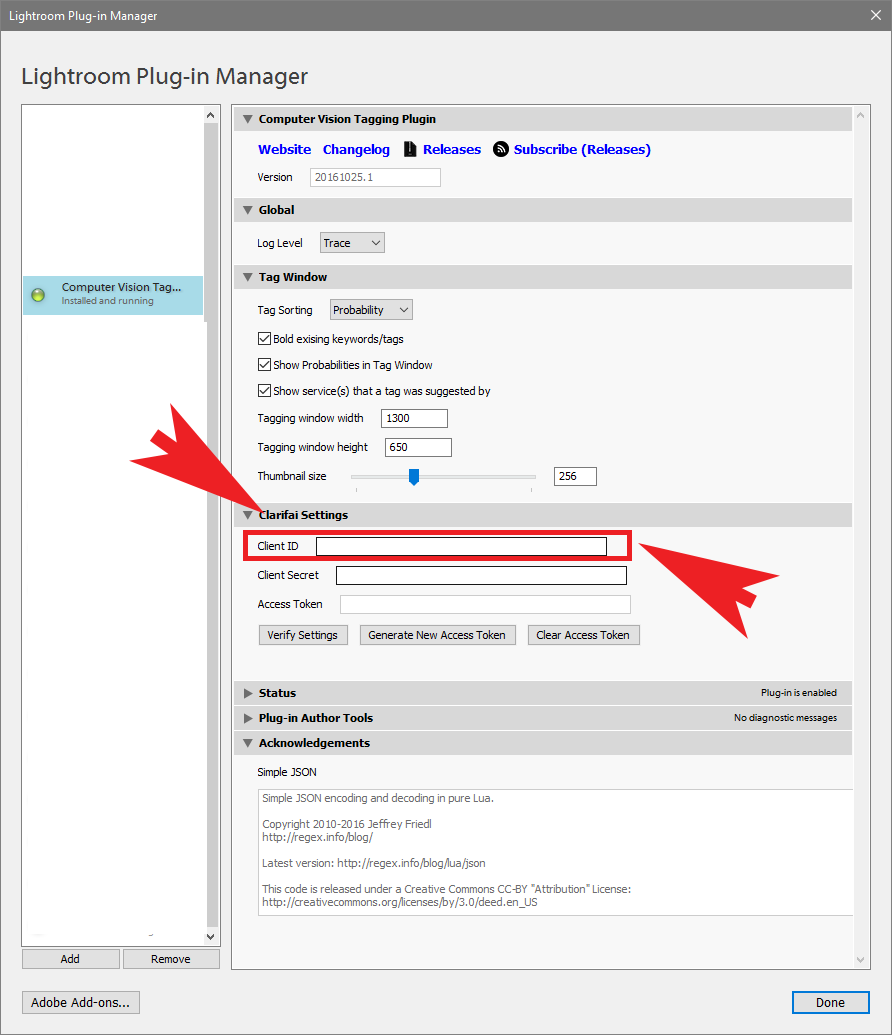
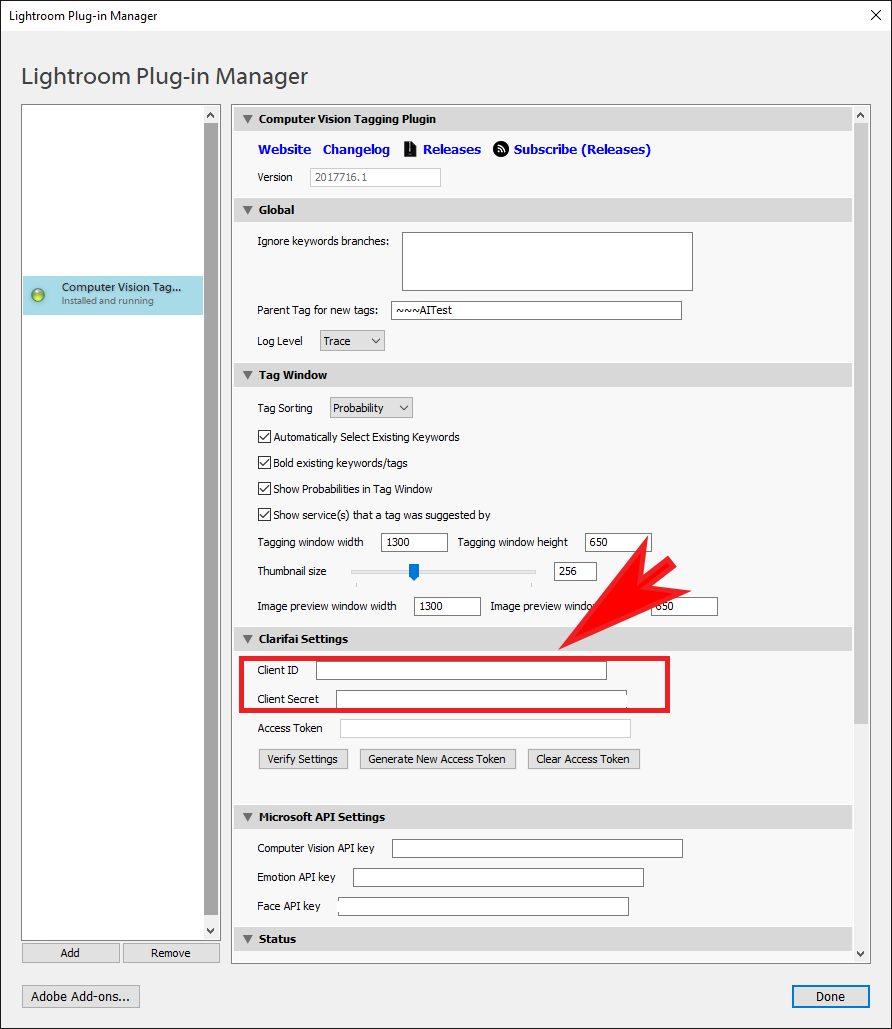
Update for latest 20170716.1 release (LOTS of doc updates plus release announce)

diff --git a/docs/ms_api_setup.md b/docs/ms_api_setup.md
@@ -1,0 +1,50 @@
+---
+layout: page
+title: Micorosft API Setup
+subtitle: How to setup the Microsoft Cognition API with the Lightroom Computer Vision Plugin
+---
+
+*Note: you can click the screen shots for larger versions*
+
+# Create Microsoft API Account
+1. Head over to the [Microsoft Azure Cognitive Services website (link)](https://docs.microsoft.com/en-us/azure/cognitive-services/) and sign up for a new Azure account  
+    [![create_account.png]({{ '/img/ms_api_setup/create_account.png' | prepend: site.baseurl | replace: '//', '/' }}){:height="128px"}]({{ '/img/ms_api_setup/create_account.png' | prepend: site.baseurl | replace: '//', '/' }})  
+    [![create_account_2.png]({{ '/img/ms_api_setup/create_account_2.png' | prepend: site.baseurl | replace: '//', '/' }}){:height="128px"}]({{ '/img/ms_api_setup/create_account_2.png' | prepend: site.baseurl | replace: '//', '/' }})
+1. After your account is created, login to the [Microsoft Azure Cognitive Services website (link)](https://azure.microsoft.com/en-us/try/cognitive-services/)  
+    [![login.png]({{ '/img/ms_api_setup/login.png' | prepend: site.baseurl | replace: '//', '/' }}){:height="128px"}]({{ '/img/ms_api_setup/login.png' | prepend: site.baseurl | replace: '//', '/' }})  
+    [![login_2.png]({{ '/img/ms_api_setup/login_2.png' | prepend: site.baseurl | replace: '//', '/' }}){:height="128px"}]({{ '/img/ms_api_setup/login_2.png' | prepend: site.baseurl | replace: '//', '/' }})
+1. Create API subscriptions for each of the Microsoft Cognition Services you intend to use.
+1. Computer Vision API : Head to [the main site (link)](https://azure.microsoft.com/en-us/services/cognitive-services/computer-vision/) and click the "Portal" link to create the subscription.  
+    [![vision_api_portal_link.png]({{ '/img/ms_api_setup/vision_api_portal_link.png' | prepend: site.baseurl | replace: '//', '/' }}){:height="128px"}]({{ '/img/ms_api_setup/vision_api_portal_link.png' | prepend: site.baseurl | replace: '//', '/' }})
+1. The Azure subscription tool will now show. Enter the necessary details (see screen shot) and ensure you're on the free tier. Also make note of the resource group name you create, it will be used for the other APIs.  
+    [![vision_api_create_sub.png]({{ '/img/ms_api_setup/vision_api_create_sub.png' | prepend: site.baseurl | replace: '//', '/' }}){:height="128px"}]({{ '/img/ms_api_setup/vision_api_create_sub.png' | prepend: site.baseurl | replace: '//', '/' }})
+1. Face API : Head to [the main site (link)](https://azure.microsoft.com/en-us/services/cognitive-services/face/) and click the "Portal" link to create the subscription.  
+    [![face_api_portal_link.png]({{ '/img/ms_api_setup/face_api_portal_link.png' | prepend: site.baseurl | replace: '//', '/' }}){:height="128px"}]({{ '/img/ms_api_setup/face_api_portal_link.png' | prepend: site.baseurl | replace: '//', '/' }})
+1. The Azure subscription tool will now show. Enter the necessary details (see screen shot) and ensure you're on the free tier. Be sure to re-use the resource group you created for the Vision API. This will help make finding the API keys easier.  
+    [![face_api_create_sub.png]({{ '/img/ms_api_setup/face_api_create_sub.png' | prepend: site.baseurl | replace: '//', '/' }}){:height="128px"}]({{ '/img/ms_api_setup/face_api_create_sub.png' | prepend: site.baseurl | replace: '//', '/' }})
+1. Emotion API : Head to [the main site (link)](https://azure.microsoft.com/en-us/services/cognitive-services/emotion/) and click the "Portal" link to create the subscription.  
+    [![emotion_api_portal_link.png]({{ '/img/ms_api_setup/emotion_api_portal_link.png' | prepend: site.baseurl | replace: '//', '/' }}){:height="128px"}]({{ '/img/ms_api_setup/emotion_api_portal_link.png' | prepend: site.baseurl | replace: '//', '/' }})
+1. The Azure subscription tool will now show. Enter the necessary details (see screen shot) and ensure you're on the free tier. Be sure to re-use the resource group you created for the Vision API. This will help make finding the API keys easier.  
+    [![emotion_api_create_sub.png]({{ '/img/ms_api_setup/emotion_api_create_sub.png' | prepend: site.baseurl | replace: '//', '/' }}){:height="128px"}]({{ '/img/ms_api_setup/emotion_api_create_sub.png' | prepend: site.baseurl | replace: '//', '/' }})
+
+# Setup Lightroom Computer Vision for Microsoft API usage
+1. Login to the main [Azure Portal (link)](https://portal.azure.com)
+1. After login you'll see the Azure Dashboard  
+    [![azure_portal_dashboard.png]({{ '/img/install_setup/azure_portal_dashboard.png' | prepend: site.baseurl | replace: '//', '/' }}){:height="128px"}]({{ '/img/install_setup/azure_portal_dashboard.png' | prepend: site.baseurl | replace: '//', '/' }})
+1. In the search box at the top, search for the resource group you setup when creating API keys and click on the resource group  
+    [![azure_portal_search.png]({{ '/img/install_setup/azure_portal_search.png' | prepend: site.baseurl | replace: '//', '/' }}){:height="128px"}]({{ '/img/install_setup/azure_portal_search.png' | prepend: site.baseurl | replace: '//', '/' }})
+1. A list of all your API subscriptions for "Cognitive Services" will now be showing
+    [![azure_api_subscription_list.png]({{ '/img/install_setup/azure_api_subscription_list.png' | prepend: site.baseurl | replace: '//', '/' }}){:height="128px"}]({{ '/img/install_setup/azure_api_subscription_list.png' | prepend: site.baseurl | replace: '//', '/' }})
+1. For each item in the Resource Group click on it and then the "Keys" option under "Resource Management" to find your API keys.
+- *Note: You'll want to make note of "Key 1" for each item, it will be used for setup of the Lightroom Plugin*  
+    [![azure_api_key_details.png]({{ '/img/install_setup/azure_api_key_details.png' | prepend: site.baseurl | replace: '//', '/' }}){:height="128px"}]({{ '/img/install_setup/azure_api_key_details.png' | prepend: site.baseurl | replace: '//', '/' }})
+1. Open Lightroom
+1. Open Plugin Manager in Lightroom  
+    [![file_plugin_manager.png]({{ '/img/install_setup/file_plugin_manager.png' | prepend: site.baseurl | replace: '//', '/' }}){:height="128px"}]({{ '/img/install_setup/file_plugin_manager.png' | prepend: site.baseurl | replace: '//', '/' }})
+1. Select the "Computer Vision Tagging" plugin  
+    [![select_lrcvt.png]({{ '/img/install_setup/select_lrcvt.png' | prepend: site.baseurl | replace: '//', '/' }}){:height="128px"}]({{ '/img/install_setup/select_lrcvt.png' | prepend: site.baseurl | replace: '//', '/' }})
+1. Enter each of the API keys from above into the "Microsoft API Settings" section of the dialog  
+    [![lr_ms_api_keys.png]({{ '/img/install_setup/lr_ms_api_keys.png' | prepend: site.baseurl | replace: '//', '/' }}){:height="128px"}]({{ '/img/install_setup/lr_ms_api_keys.png' | prepend: site.baseurl | replace: '//', '/' }})
+1. The plugin is now setup to utilize the Microsoft Computer Vision and Cognition APIs
+
+![Creative Commons License]({{ '/img/CC-BY-SA-NC-4.0.png' | prepend: site.baseurl | replace: '//', '/' }})

diff --git a/docs/export_settings.md b/docs/export_settings.md
@@ -9,7 +9,7 @@ subtitle: A breakdown of the export settings available for this plugin
 [![Export_Dialog.png]({{ '/img/screenshots/Export_Dialog.png' | prepend: site.baseurl | replace: '//', '/' }}){:height="384"}]({{ '/img/screenshots/Export_Dialog.png' | prepend: site.baseurl | replace: '//', '/' }})
 
 # Global Settings Section
-This section allows you to select which APIs/services are used for tagging. Currently only the Clarifai API/service is implemented. More services will be added as they are implemented by the plugin
+This section allows you to select which APIs/services are used for tagging. You'll need to setup any selected services API keys in the plugin's preferences prior to use.
 
 # Image Quality Section
 Size (Mpx)
@@ -44,6 +44,58 @@ Model
 
 Language
 : Which of the Clarifai API languages to use. Note the tags will be returned in this language.
+
+# Microsoft Computer Vision Settings
+Enable Categories
+: Turn on the "Categories" API feature. Currently not shown during tagging. Available via the json side car file.
+
+Enable Tags
+: Turn on the "Tags" API feature. Shows the generated tags in the tagging dialog.
+
+Enable Description Generation
+: Turn on the "Description Generation" API feature. Currently not shown during tagging. Available via the json side car file.
+
+Enable Color Detection
+: Turn on "Color" API feature. Shows dominant and secondary colors. Shows at bottom of tagging dialog for copy/paste.
+
+Enable NSFW Detection
+: Turn on "NSFW Detection" API feature. Shows how "racy" or "adult" a photo is. Shows at bottom of tagging dialog for copy/paste.
+
+Enable Face Detection
+: Turn on "Face Detection" API feature. Shows bounding box coordinates for found faces. Shows at bottom of tagging dialog for copy/paste.
+
+Enable Image Type
+: Turn on "Image Type Detection" API feature. Currently not shown during tagging. Avaialble via the json side car file.
+
+Enable Celebrity Detection
+: Turn on "Celebrity Detection" API feature. Currently not shown during tagging. Available via the json side car file.
+
+# Microsoft Face Settings
+Note, all features that are enabled are shown in one section of the tagging dialog at the bottom
+
+Enable IDs
+: Enable "Face IDs" API feature
+
+Enable Landmarks
+: Enable "Landmarks" API feature. Shows detects factial features
+
+Enable Smile Detection
+: Shows if someone is smiling
+
+Enable Gender Detection
+: Detects the gender of a face
+
+Enable Age Detection
+: Detects the age of a face
+
+Enable Glasses Detection
+: Detects if a face is wearing glasses
+
+Enable Facial hair Detection
+: Detects facial hair (including type) on a face
+
+Enable Head Pose Detection
+: Detects the pose a head has in a photo
 
 # Output Sharpening Section
 This is the standard Lightroom Output Sharpening export section

diff --git a/docs/clarifai_api_setup.md b/docs/clarifai_api_setup.md
@@ -17,9 +17,15 @@ subtitle: How to setup the Clarifai API with the Lightroom Computer Vision Plugi
     [![create_application.png]({{ '/img/clarifai_api_setup/create_application.png' | prepend: site.baseurl | replace: '//', '/' }}){:height="128px"}]({{ '/img/clarifai_api_setup/create_application.png' | prepend: site.baseurl | replace: '//', '/' }})
 1. Give the application a name that makes sense for you and click "Create Application"  
     [![name_create.png]({{ '/img/clarifai_api_setup/name_create.png' | prepend: site.baseurl | replace: '//', '/' }}){:height="128px"}]({{ '/img/clarifai_api_setup/name_create.png' | prepend: site.baseurl | replace: '//', '/' }})
-1. A new screen will show with fields named "Client Id" and "Client Secret". These values are used within the plugin for access to the Clarifai API setup.
-    - *Note: I've blacked out a large portion of the Client Id and Client Secret in the screenshot, your values will be much longer*  
-    [![client_id_client_secret.png]({{ '/img/clarifai_api_setup/client_id_client_secret.png' | prepend: site.baseurl | replace: '//', '/' }}){:height="128px"}]({{ '/img/clarifai_api_setup/client_id_client_secret.png' | prepend: site.baseurl | replace: '//', '/' }})
+1. You will be returned to your application list after creation.
+1. Click the "Edit" button on the newly created app to open the details for the application  
+    [![app_details.png]({{ '/img/clarifai_api_setup/app_details.png' | prepend: site.baseurl | replace: '//', '/' }}){:height="128px"}]({{ '/img/clarifai_api_setup/app_details.png' | prepend: site.baseurl | replace: '//', '/' }})
+1. Click the "Show Legacy Authorization" heading on the screen that pops up.
+- *Note: as of this writing the legacy authorization tokens are required, a future update will change this*  
+    [![show_legacy_auth.png]({{ '/img/clarifai_api_setup/show_legacy_auth.png' | prepend: site.baseurl | replace: '//', '/' }}){:height="128px"}]({{ '/img/clarifai_api_setup/show_legacy_auth.png' | prepend: site.baseurl | replace: '//', '/' }})
+1. The screen will now show with fields named "Client Id" and "Client Secret". These values are used within the plugin for access to the Clarifai API setup.
+   - *Note: I've blacked out a large portion of the Client Id and Client Secret in the screenshot, your values will be much longer*  
+   [![client_id_client_secret.png]({{ '/img/clarifai_api_setup/client_id_client_secret.png' | prepend: site.baseurl | replace: '//', '/' }}){:height="128px"}]({{ '/img/clarifai_api_setup/client_id_client_secret.png' | prepend: site.baseurl | replace: '//', '/' }})
 
 # Setup Lightroom Computer Vision for Clarifai API usage
 1. Open Lightroom

diff --git a/docs/plugin_prefs.md b/docs/plugin_prefs.md
@@ -8,7 +8,7 @@ subtitle: A breakdown of the preferences available for this plugin
 
 [![Plugin_Settings.png]({{ '/img/screenshots/Plugin_Settings.png' | prepend: site.baseurl | replace: '//', '/' }}){:height="384"}]({{ '/img/screenshots/Plugin_Settings.png' | prepend: site.baseurl | replace: '//', '/' }})
 
-# General Section
+# Computer Vision Tagging Plugin Section
 Website
 : A clickable link that will take you to the plugins main website
 
@@ -25,6 +25,12 @@ Version
 : A static field showing the current version installed
 
 # Global Section
+Ignore keywords branches
+: A comma separated list of top level keywords that should be ignored during tagging
+
+Parent Tag For new tags:
+: The parent keyword to use for new tags created by the plugin. If you use keyword hierarchies, you'll probably want to set this
+
 Log Level
 : Sets the log output level for the plugin. Logs can be found in a file named "info.kemonine.lrcvt.log" in the usual Lightroom log location.
 
@@ -50,7 +56,13 @@ Tagging window height
 Thumbnail size
 : The size (in pixels) of thumbnails to show in the tagging window. The window will show a square with the specified dimensions for images in the tagging window.
 
-# Clarifai Settings
+Image preview window width
+: The width (in pixels) of the image preview window. Currently the image preview window cannot be resized once it is shown. Use this field to adjust the size of the window shown.
+
+Image preview window height
+: The height (in pixels) of the image preview window. Currently the image preview window cannot be resized once it is shown. Use this field to adjust the size of the window shown.
+
+# Clarifai Settings Section
 Client ID
 : The generated application client ID from the Clarifai website
 
@@ -69,5 +81,14 @@ Generate New Access Token
 Clear Access Token
 : A button that will clear the access token. This can be helpful if you're having trouble with an access token and want to clear it out. It is also helpful for clearing the whole state of the Clarifai API/service configuration if necessary/desired.
 
+# Microsoft API Settings Section
+Computer Vision API key
+: The API key to use with the Microsoft Computer Vision API
+
+Emotion API Key
+: The API key to use with the Microsoft Emotion API
+
+Face API key
+: The API key to use with the Microsoft Face API
 
 ![Creative Commons License]({{ '/img/CC-BY-SA-NC-4.0.png' | prepend: site.baseurl | replace: '//', '/' }})

diff --git a/project_plan.md b/project_plan.md
@@ -8,47 +8,6 @@ This document outlines the rough roadmap the developers will loosely follow. Ove
 
 Please note there are not any dates listed here. The developers have day jobs and will **NOT** commit to deadlines. Don't ask.
 
-# Phase 12 - Feature
-- [X] Branch
-- [X] Implement Microsoft Computer Vision API (new service)
-- [X] Allow selection of MS/Clarifai APIs in preferences
-- [X] Save response as side car file
-- [X] Add tags to main tagging dialog
-- [X] Add tags to auto tagging
-- [X] Version Bump
-- [X] Branch merge
-- [X] Branch cleanup
-- [X] Update Project Plan
-- [X] Post on docs site
-
-# Phase 13 - Feature
-- [X] Branch
-- [X] Show service specific data in tagging window after tag group
-- [X] Version Bump
-- [X] Branch merge
-- [X] Branch cleanup
-- [X] Update Project Plan
-- [X] Post on docs site
-
-# Phase 14 - Feature
-- [X] Branch
-- [X] Implement Microsoft Emotion API (new service)
-- [X] Implement Microsoft Face API (new service)
-- [X] Save emotion response as side car file
-- [X] Save face response as side car file
-- [X] Show emotion service specific data in tagging dialog
-- [X] Show face service specific data in tagging dialog
-- [X] Version Bump
-- [X] Branch merge
-- [X] Branch cleanup
-- [X] Update Project Plan
-- [X] Post on docs site
-
-# Phase 15 - Docs
-- [ ] Create docs for setup of Microsoft Computer Vision services (use Clarifai docs as template/model)
-- [ ] Update screenshots of application dialogs/windows/etc
-- [ ] Update other pages under "Documentation" to fill in new information specific to Microsoft Comptuer Vision services
-
 # Phase 16 - Clarifai API v2
 - [ ] Branch
 - [ ] Clarifai API v2
@@ -57,6 +16,9 @@ Please note there are not any dates listed here. The developers have day jobs an
 - [ ] Branch cleanup
 - [ ] Update Project Plan
 - [ ] Post on docs site
+
+# Phase 17 - Clarifai API v2 (Docs)
+- [ ] Update docs site with all new walk throughs on how to setup ClarifaiAPI
 
 # Phase Future (enhancements / features)
 - [ ] Preference to show only non-API suggested, existing key words in tagging dialog

diff --git a/_posts/2017-07-16-1-ms-computer-vision.md b/_posts/2017-07-16-1-ms-computer-vision.md
@@ -1,0 +1,53 @@
+---
+layout: post
+title: Phase Fixes
+subtitle: Fixes, Misc Updates
+---
+
+# Changelog
+The fundamental Microsoft Computer Vision APIs have been integrated into the plugin. See below for further details.
+
+# Phase 12 - Feature
+- [X] Branch
+- [X] Implement Microsoft Computer Vision API (new service)
+- [X] Allow selection of MS/Clarifai APIs in preferences
+- [X] Save response as side car file
+- [X] Add tags to main tagging dialog
+- [X] Add tags to auto tagging
+- [X] Version Bump
+- [X] Branch merge
+- [X] Branch cleanup
+- [X] Update Project Plan
+- [X] Post on docs site
+
+# Phase 13 - Feature
+- [X] Branch
+- [X] Show service specific data in tagging window after tag group
+- [X] Version Bump
+- [X] Branch merge
+- [X] Branch cleanup
+- [X] Update Project Plan
+- [X] Post on docs site
+
+# Phase 14 - Feature
+- [X] Branch
+- [X] Implement Microsoft Emotion API (new service)
+- [X] Implement Microsoft Face API (new service)
+- [X] Save emotion response as side car file
+- [X] Save face response as side car file
+- [X] Show emotion service specific data in tagging dialog
+- [X] Show face service specific data in tagging dialog
+- [X] Version Bump
+- [X] Branch merge
+- [X] Branch cleanup
+- [X] Update Project Plan
+- [X] Post on docs site
+
+# Phase 15 - Microsoft API Docs
+- [X] Create docs for setup of Microsoft Computer Vision services (use Clarifai docs as template/model)
+- [X] Update screenshots of application dialogs/windows/etc
+- [X] Update other pages under "Documentation" to fill in new information specific to Microsoft Comptuer Vision services
+
+# Download Release
+
+[![Zip File Icon]({{ '/img/zip_icon.png' | prepend: site.baseurl | replace: '//', '/' }}){:height="120px" width="120px"}](https://github.com/mcrosson/lr_plugin_computer_vision_tagging/archive/20170716.1.zip)

diff --git a/changelog.md b/changelog.md
@@ -4,6 +4,47 @@ title: Changelog
 subtitle: Changes / updates / fixes by phase
 ---
 
+# Phase 15 - Microsoft API Docs
+- [X] Create docs for setup of Microsoft Computer Vision services (use Clarifai docs as template/model)
+- [X] Update screenshots of application dialogs/windows/etc
+- [X] Update other pages under "Documentation" to fill in new information specific to Microsoft Comptuer Vision services
+
+# Phase 14 - Feature
+- [X] Branch
+- [X] Implement Microsoft Emotion API (new service)
+- [X] Implement Microsoft Face API (new service)
+- [X] Save emotion response as side car file
+- [X] Save face response as side car file
+- [X] Show emotion service specific data in tagging dialog
+- [X] Show face service specific data in tagging dialog
+- [X] Version Bump
+- [X] Branch merge
+- [X] Branch cleanup
+- [X] Update Project Plan
+- [X] Post on docs site
+
+# Phase 13 - Feature
+- [X] Branch
+- [X] Show service specific data in tagging window after tag group
+- [X] Version Bump
+- [X] Branch merge
+- [X] Branch cleanup
+- [X] Update Project Plan
+- [X] Post on docs site
+
+# Phase 12 - Feature
+- [X] Branch
+- [X] Implement Microsoft Computer Vision API (new service)
+- [X] Allow selection of MS/Clarifai APIs in preferences
+- [X] Save response as side car file
+- [X] Add tags to main tagging dialog
+- [X] Add tags to auto tagging
+- [X] Version Bump
+- [X] Branch merge
+- [X] Branch cleanup
+- [X] Update Project Plan
+- [X] Post on docs site
+
 # Phase Fixes - Small Bug Fix
 - [X] Fixed bug that prevented use when API token expired
 

diff --git a/docs/screenshots.md b/docs/screenshots.md
@@ -6,14 +6,8 @@ subtitle: Pictures of the plugin UI
 
 Click images for larger versions
 
-# Tagging Dialog - Clarifai/General/English
-[![Tag_Dialog_(general_english).png]({{ '/img/screenshots/Tag_Dialog_(general_english).png' | prepend: site.baseurl | replace: '//', '/' }}){:height="256px"}]({{ '/img/screenshots/Tag_Dialog_(general_english).png' | prepend: site.baseurl | replace: '//', '/' }})
-
-# Tagging Dialog - Clarifai/Food/English
-[![Tag_Dialog_(food_english).png]({{ '/img/screenshots/Tag_Dialog_(food_english).png' | prepend: site.baseurl | replace: '//', '/' }}){:height="256px"}]({{ '/img/screenshots/Tag_Dialog_(food_english).png' | prepend: site.baseurl | replace: '//', '/' }})
-
-# Tagging Dialog - Clarifai/General/Spanish
-[![Tag_Dialog_(general_spanish).png]({{ '/img/screenshots/Tag_Dialog_(general_spanish).png' | prepend: site.baseurl | replace: '//', '/' }}){:height="256px"}]({{ '/img/screenshots/Tag_Dialog_(general_spanish).png' | prepend: site.baseurl | replace: '//', '/' }})
+# Tagging Dialog
+[![Tagging_Dialog.png]({{ '/img/screenshots/Tagging_Dialog.png' | prepend: site.baseurl | replace: '//', '/' }}){:height="256px"}]({{ '/img/screenshots/Tagging_Dialog.png' | prepend: site.baseurl | replace: '//', '/' }})
 
 # Export Dialog
 [![Export_Dialog.png]({{ '/img/screenshots/Export_Dialog.png' | prepend: site.baseurl | replace: '//', '/' }}){:height="256px"}]({{ '/img/screenshots/Export_Dialog.png' | prepend: site.baseurl | replace: '//', '/' }})
